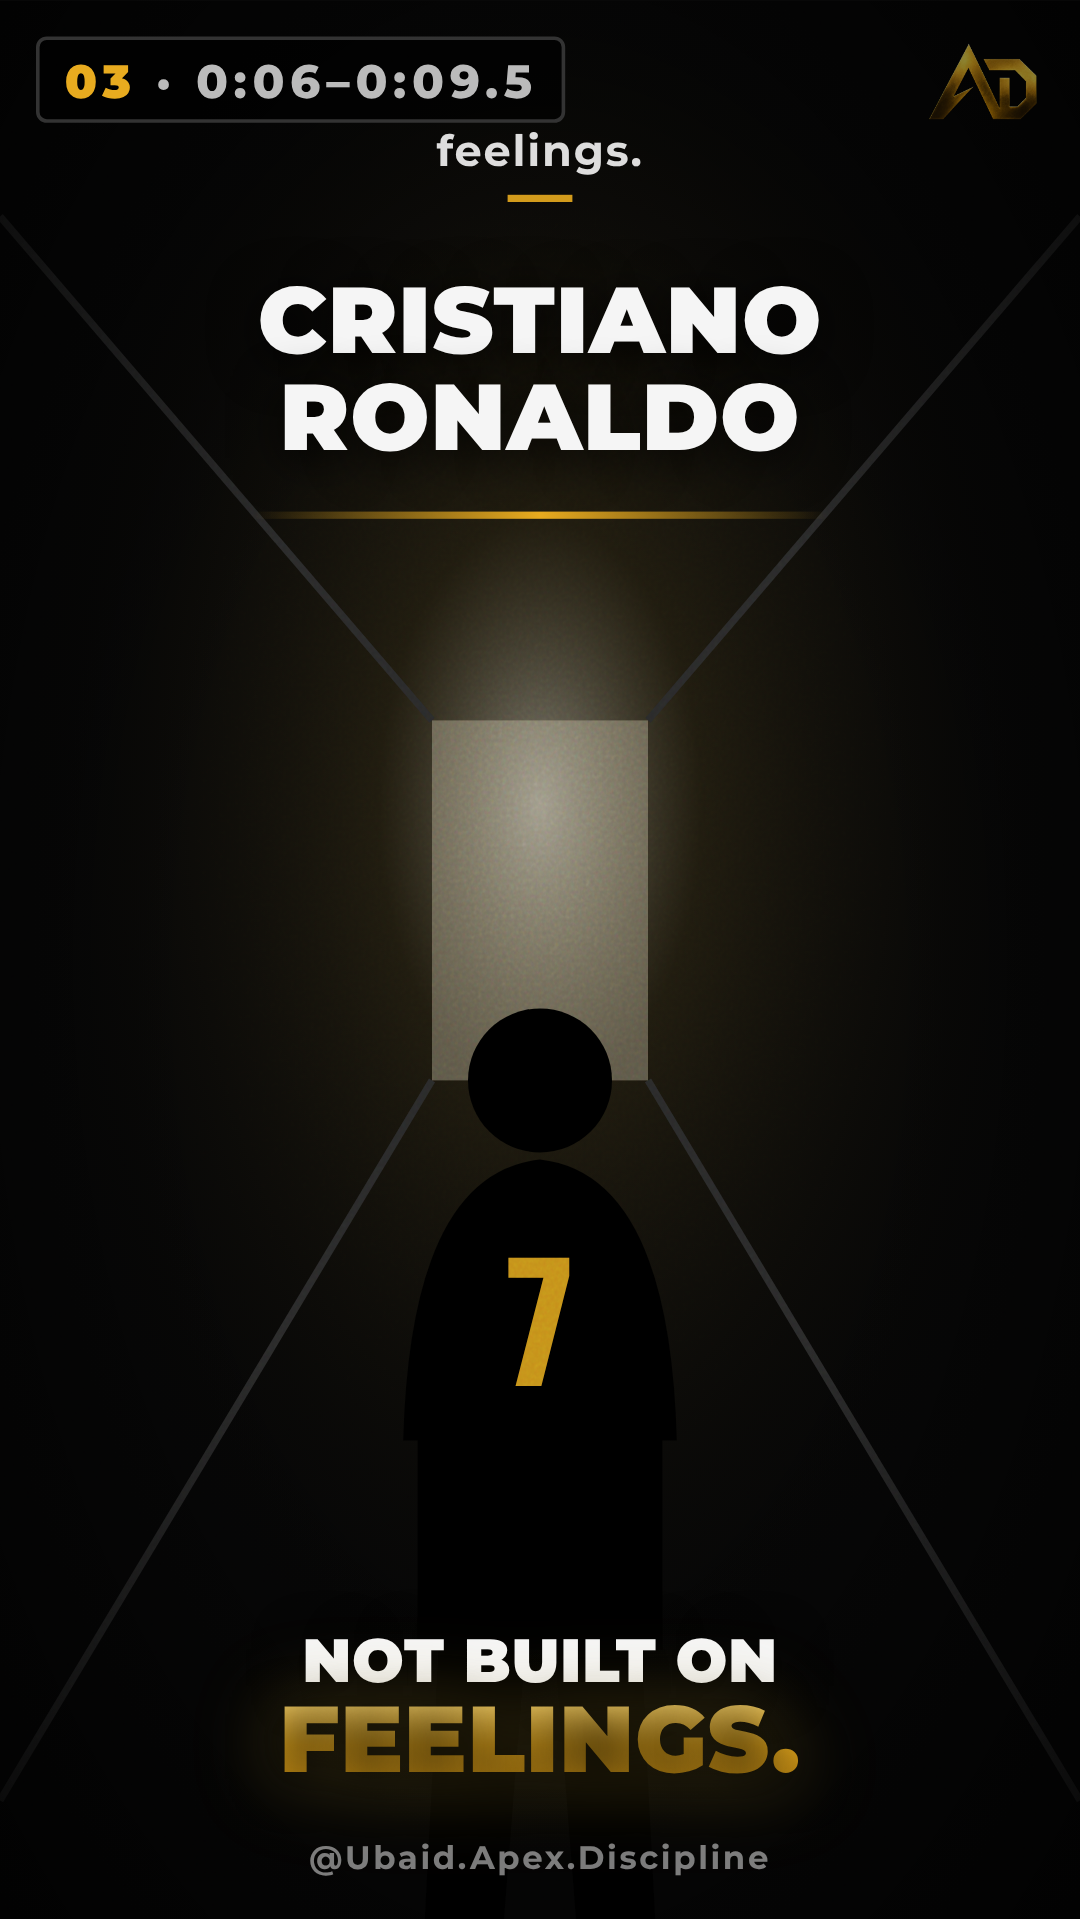
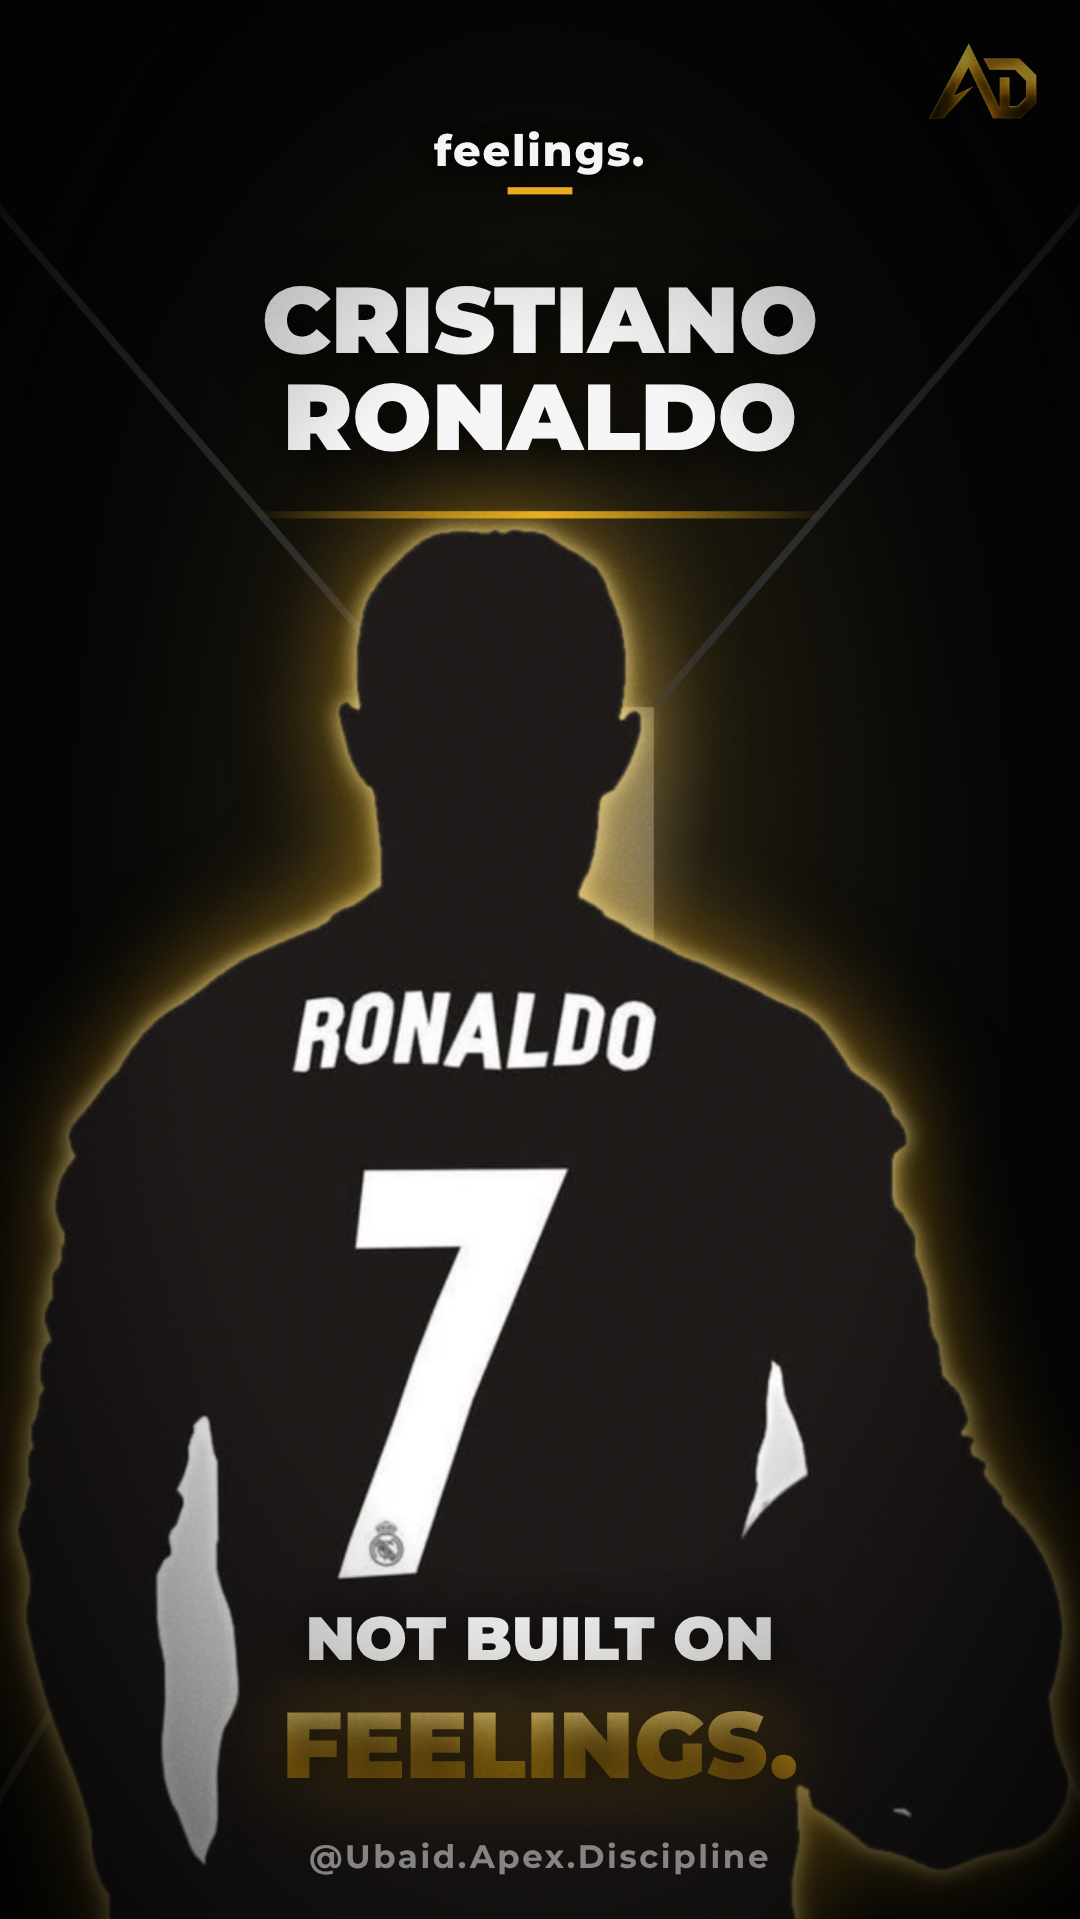
Use user-supplied images for scenes 3 and 4
Claude-Session: https://claude.ai/code/session_01CQKcfhzbMrc2uGoniLTRdE

diff --git a/render/anim.html b/render/anim.html
@@ -43,18 +43,14 @@ body{font-family:Montserrat,sans-serif;color:#F5F5F5}
 <rect width="300" height="533" fill="url(#tn)"/>
 <g stroke="#2a2a2a" stroke-width="2" fill="none"><path d="M0 60 L120 200"/><path d="M300 60 L180 200"/><path d="M0 500 L120 300"/><path d="M300 500 L180 300"/></g>
 <rect x="120" y="200" width="60" height="100" fill="#d9d2b8" opacity=".35"/>
-<g id="s3fig" style="transform-origin:150px 533px"><g fill="#000"><circle cx="150" cy="300" r="20"/><path d="M112 400 Q114 326 150 322 Q186 326 188 400Z"/><rect x="116" y="398" width="68" height="60"/><path d="M122 456 L118 533 L140 533 L146 456Z M178 456 L182 533 L160 533 L154 456Z"/></g>
-<text x="150" y="385" text-anchor="middle" font-family="Oswald,Montserrat,sans-serif" font-weight="700" font-size="44" fill="#E8AB1F" opacity=".85">7</text></g></svg></div>
+</svg><img id="s3fig" src="../storyboard/assets/scene3-silhouette.png" style="position:absolute;left:0;top:70px;width:300px;transform-origin:150px 533px;filter:drop-shadow(0 0 3px rgba(255,228,138,.9)) drop-shadow(0 0 14px rgba(232,171,31,.55))"></div>
 <div id="s3line" style="position:absolute;top:142px;left:70px;width:160px;height:2px;background:linear-gradient(90deg,transparent,var(--gold),transparent);transform-origin:left;transform:scaleX(0)"></div></div>
 
 <!-- 4 -->
-<div class="scene" id="s4"><div class="cam" style="filter:sepia(.4) contrast(1.15)"><svg viewBox="0 0 300 533">
-<rect width="300" height="533" fill="#14120f"/><path d="M0 360 L300 340 L300 533 L0 533Z" fill="#1f1c17"/>
-<g stroke="#2a2620" stroke-width="1.5" fill="none"><path d="M0 400 L300 385"/><path d="M0 440 L300 425"/><path d="M0 485 L300 470"/><path d="M60 360 L40 533"/><path d="M140 352 L130 533"/><path d="M220 346 L230 533"/></g>
-<rect x="0" y="120" width="70" height="230" fill="#1a1814"/><rect x="230" y="100" width="70" height="245" fill="#1a1814"/>
-<g fill="#000"><circle cx="138" cy="250" r="12"/><path d="M128 262 L148 262 L146 312 L130 312Z"/><path d="M131 312 L120 360 L128 362 L138 318Z M145 312 L168 346 L174 340 L148 310Z"/><path d="M130 268 L112 298 M146 268 L162 292" stroke="#000" stroke-width="5"/></g>
-<circle id="s4ball" cx="186" cy="352" r="9" fill="#cfc6ad"/>
-<rect id="s4scratch" x="18" y="0" width="1.5" height="533" fill="#fff" opacity=".14"/><rect x="250" y="0" width="1" height="533" fill="#fff" opacity=".1"/></svg></div></div>
+<div class="scene" id="s4"><div class="cam"><img id="s4img" src="../storyboard/assets/scene4-kid.jpg" style="position:absolute;height:533px;left:50%;top:58px;transform:translateX(-50%);filter:grayscale(.55) sepia(.45) contrast(1.25) brightness(.62)">
+<svg viewBox="0 0 300 533" style="position:absolute;inset:0;width:100%;height:100%"><defs><linearGradient id="s4fade" x1="0" y1="0" x2="0" y2="1"><stop offset="0" stop-color="#000" stop-opacity=".75"/><stop offset=".25" stop-color="#000" stop-opacity="0"/><stop offset=".6" stop-color="#000" stop-opacity="0"/><stop offset="1" stop-color="#000" stop-opacity=".85"/></linearGradient></defs>
+<rect width="300" height="533" fill="url(#s4fade)"/>
+<rect id="s4scratch" x="18" y="0" width="1.5" height="533" fill="#fff" opacity=".18"/><rect x="250" y="0" width="1" height="533" fill="#fff" opacity=".12"/></svg></div></div>
 
 <!-- 5 -->
 <div class="scene" id="s5"><div class="cam"><svg viewBox="0 0 300 533">
@@ -237,9 +233,9 @@ window.setTime=function(t){
     $('s2glow').style.opacity=(1-out)*(0.85+0.15*rnd(f+3))*cl(lt/0.15);
     $('s2smoke').style.opacity=out*0.7*(1-cl((t-S(4)-1)/1.2));$('s2smoke').style.transform=`translateY(${-30*out}px)`;
     if(lt<0.12)$('flash').style.opacity=0;}
-  if(sc===3){$('s3fig').style.transform=`scale(${1-0.12*p})`;$('s3line').style.transform=`scaleX(${ease((t-S(5)-0.5)/0.6)})`;hit(E(5)-0.6,2.5);}
+  if(sc===3){$('s3fig').style.transform=`scale(${1.06-0.1*p})`;$('s3line').style.transform=`scaleX(${ease((t-S(5)-0.5)/0.6)})`;hit(E(5)-0.6,2.5);}
   if(sc===4){tx=(rnd(f)-0.5)*2.2;ty=(rnd(f+7)-0.5)*2.2;cam.style.opacity=0.82+0.18*rnd(f+11);$('s4scratch').setAttribute('x',10+280*rnd(Math.floor(f/3)));
-    $('s4ball').setAttribute('cx',186+40*p);hit(S(7),4);hit(S(9),5);}
+    hit(S(7),4);hit(S(9),5);}
   else cam.style.opacity=1;
   if(sc===5){const k=ease((t-S(10))/0.9);$('s5num').style.opacity=cl((t-S(10))/0.1);$('s5num').textContent=Math.round(15*k);
     $('s5ecg').style.strokeDashoffset=700*(1-cl(lt/2.6));}
